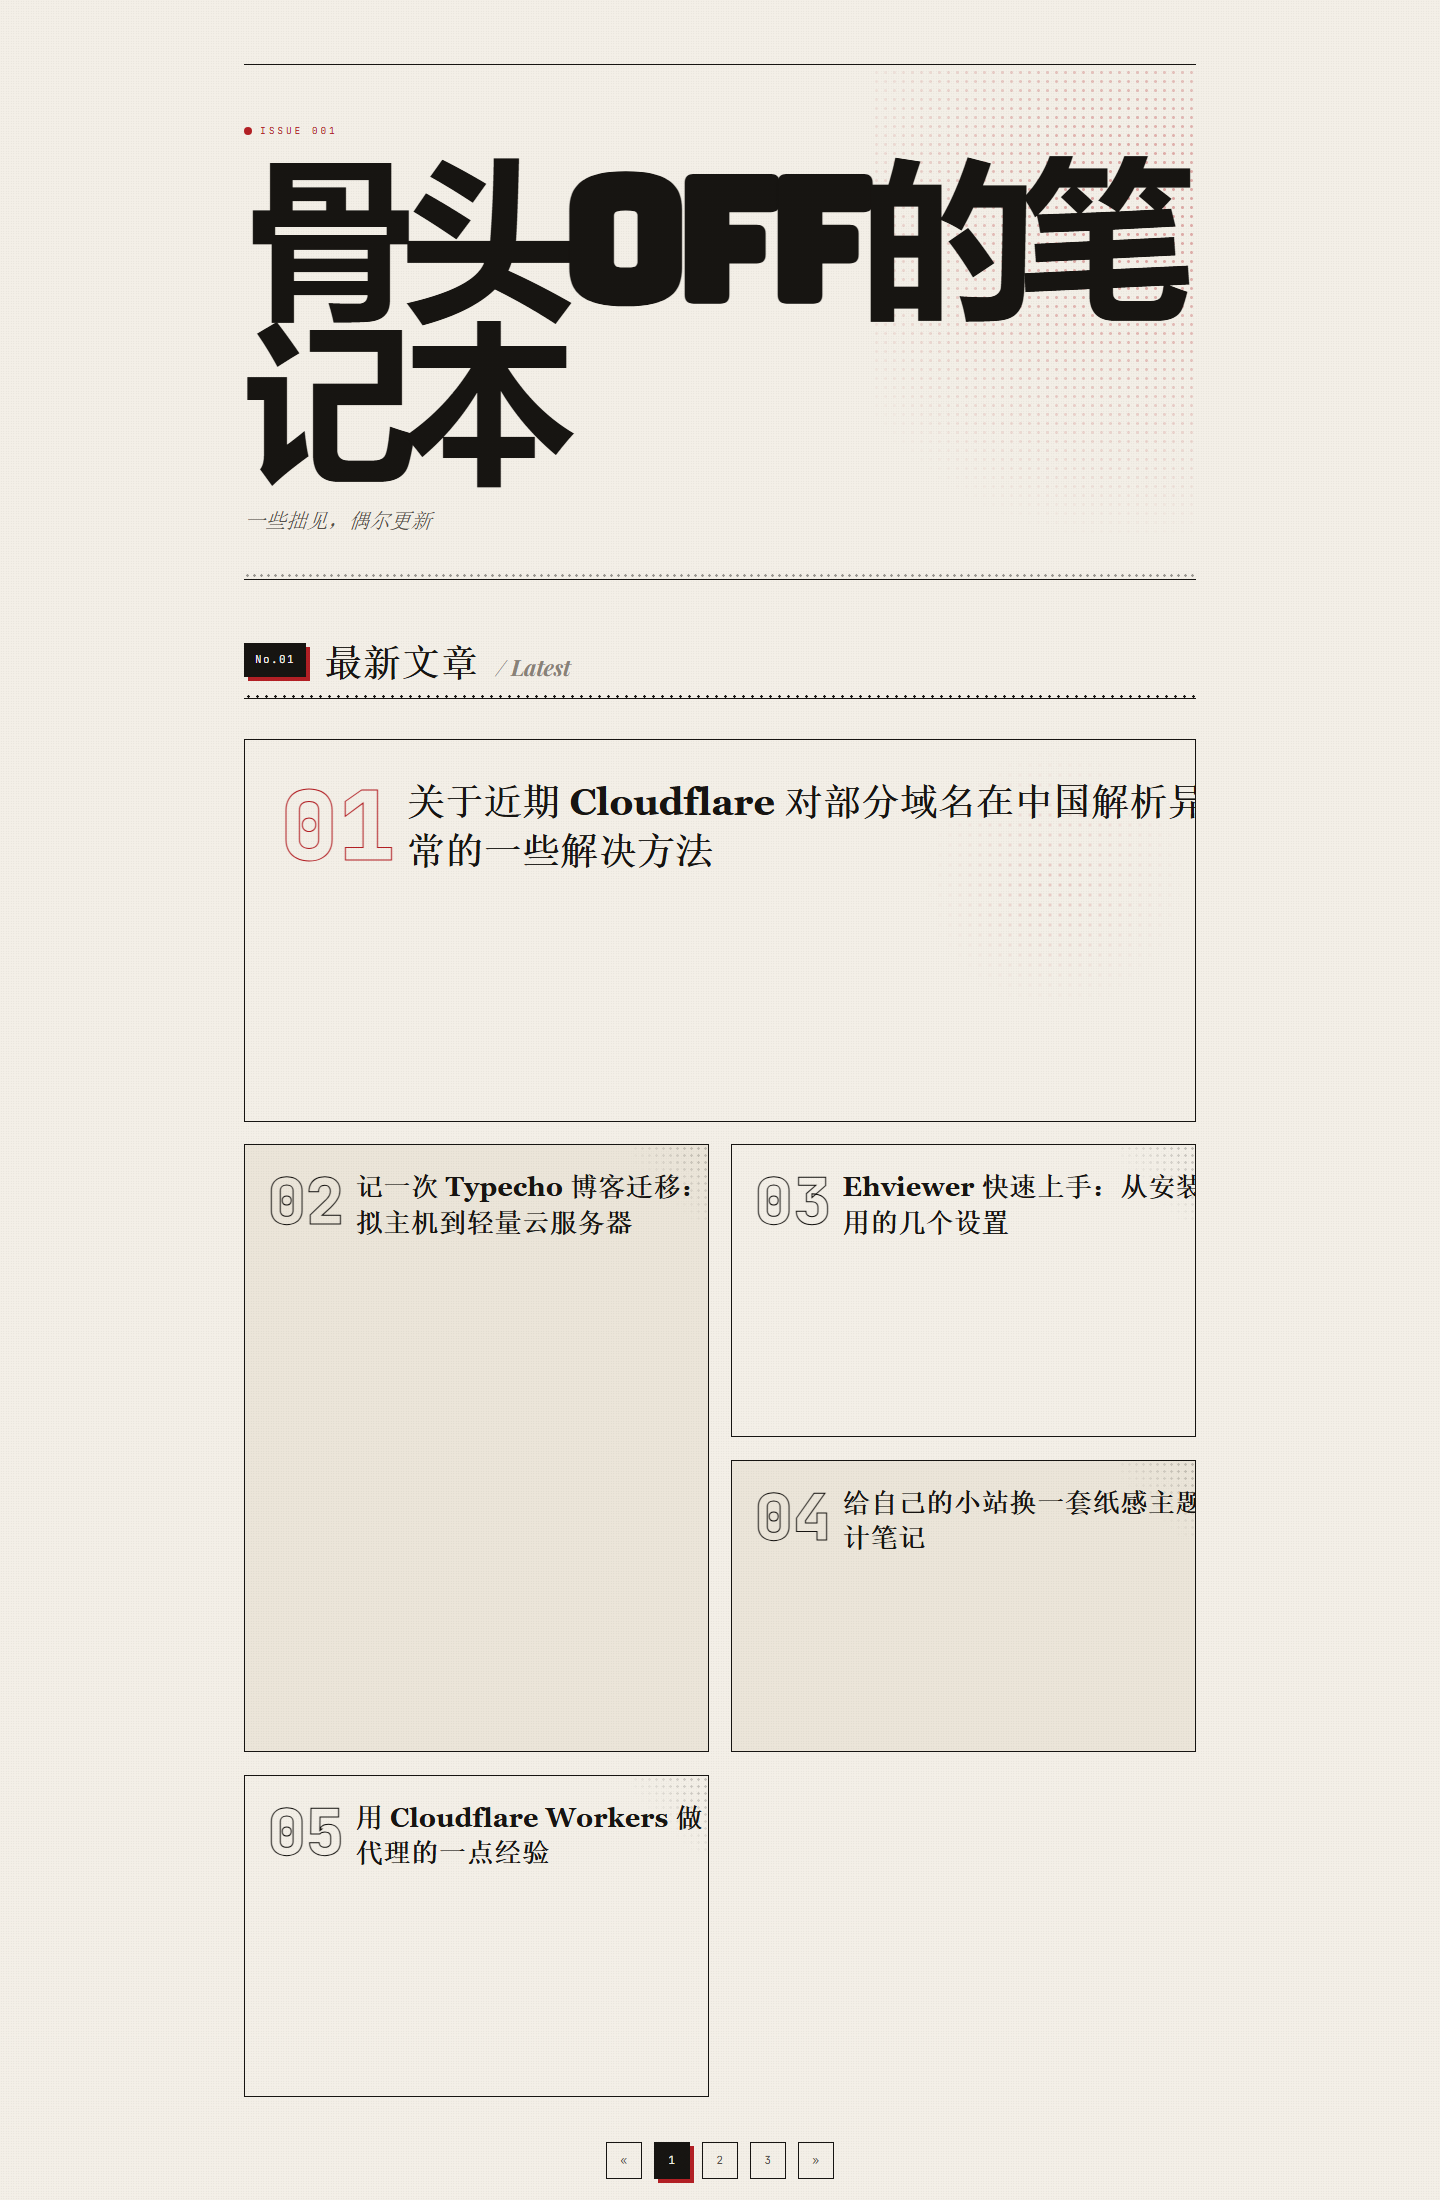
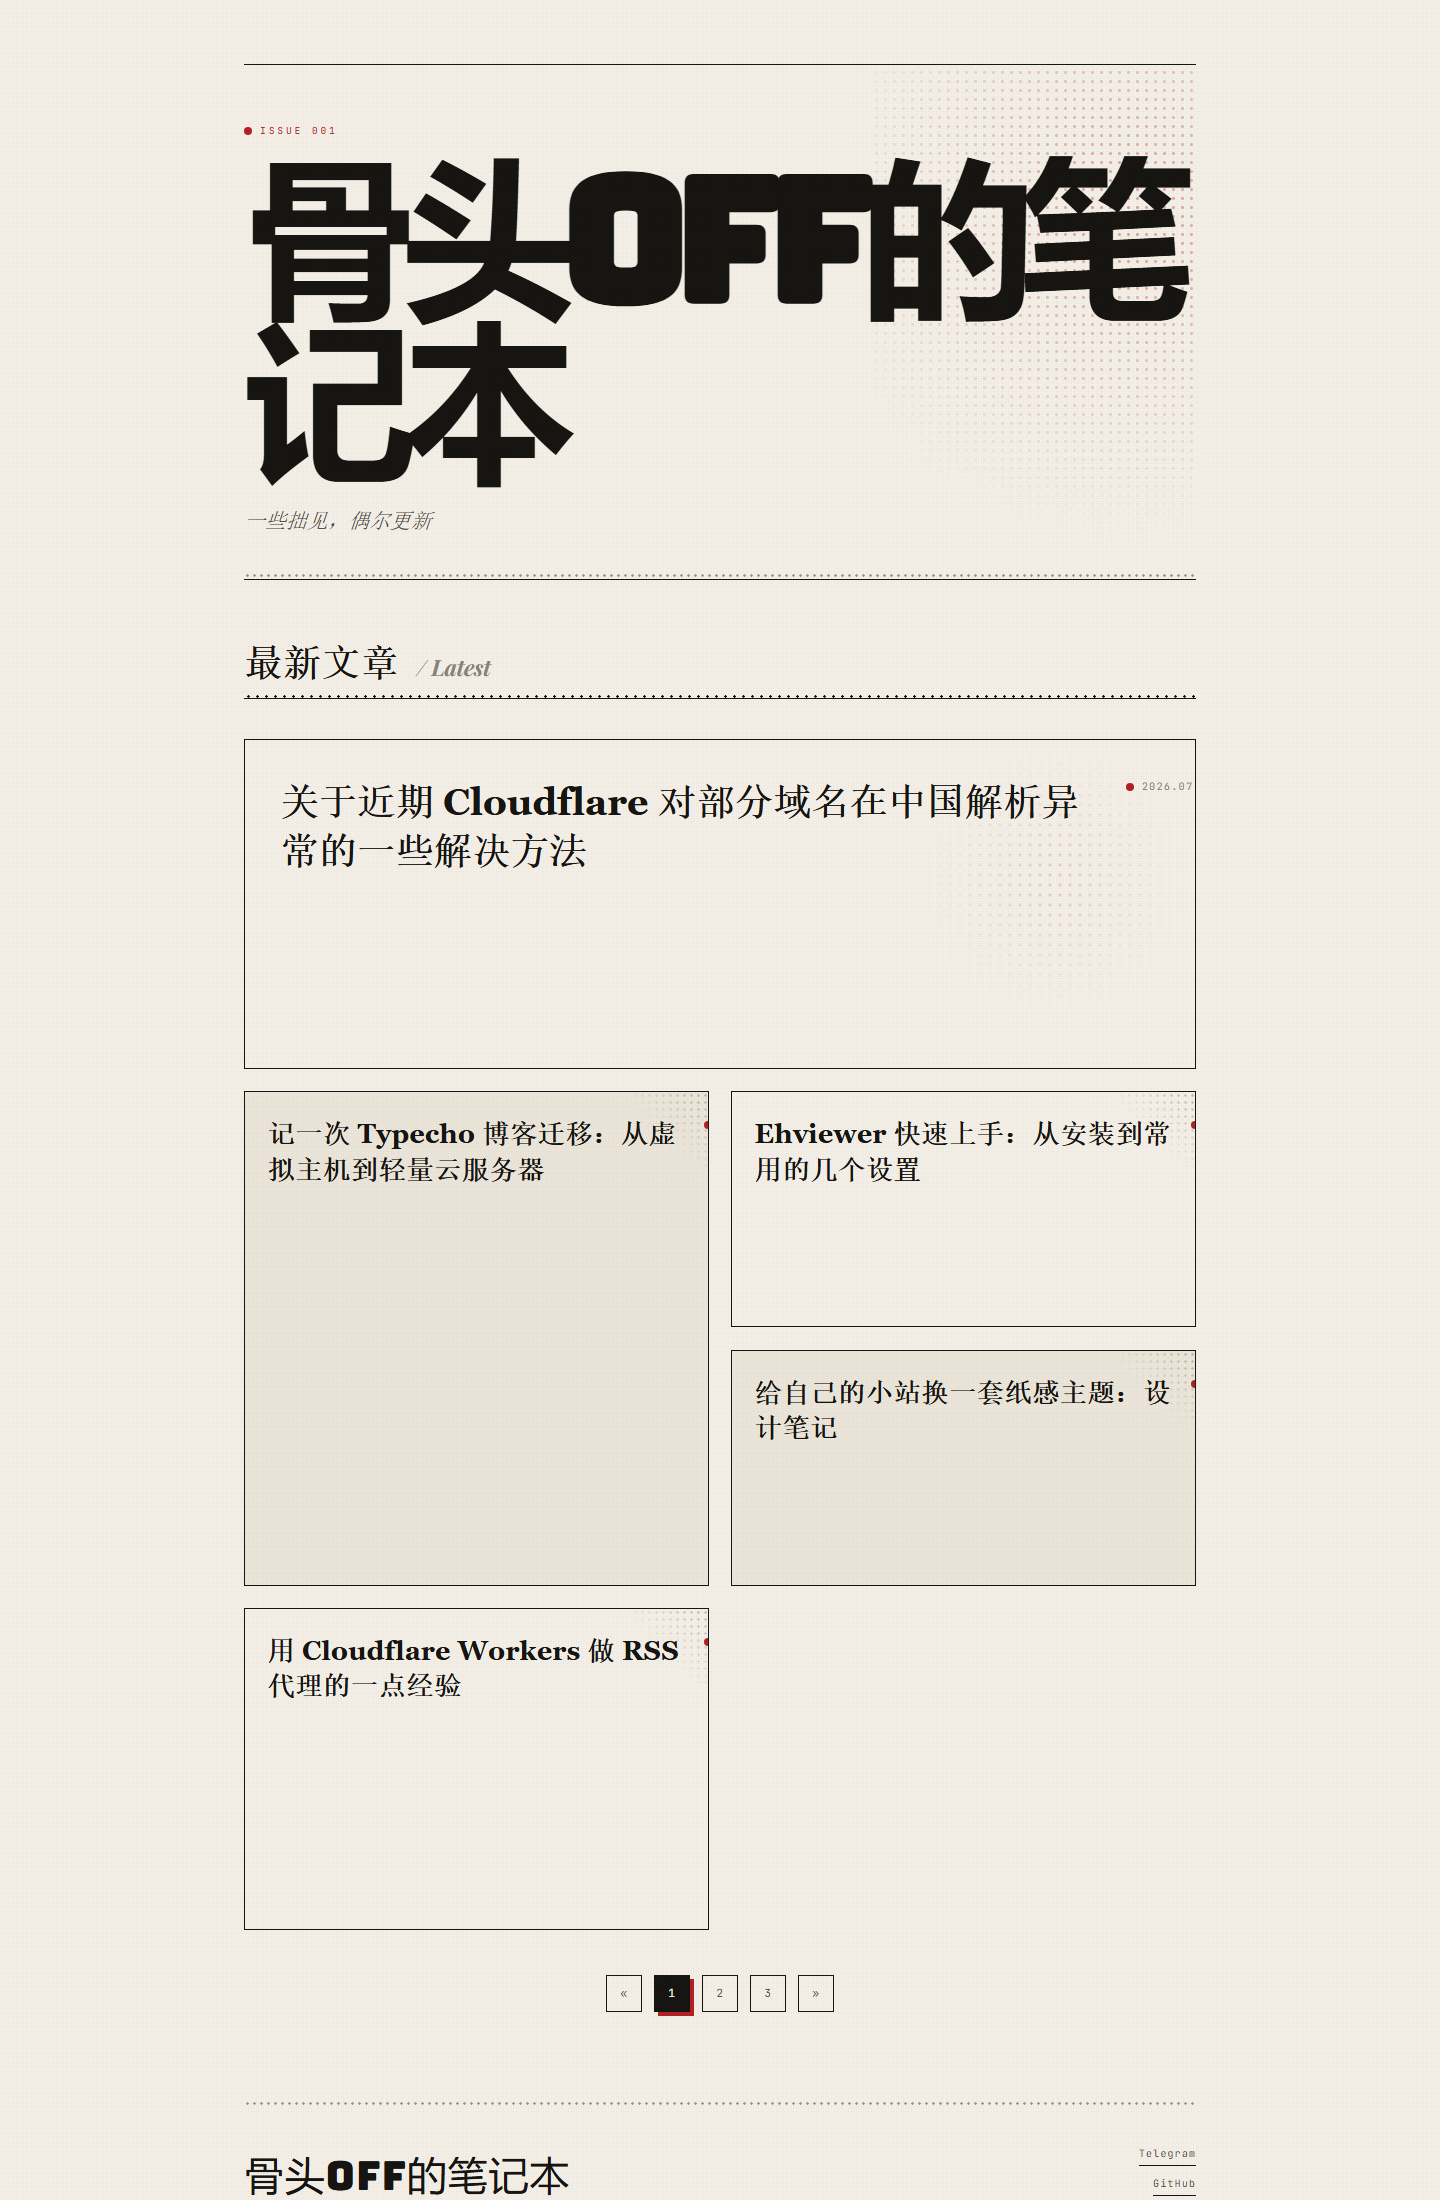
refactor(home): drop category kicker, card numbers and No.01 section sticker from homepage cards

diff --git a/index.php b/index.php
@@ -11,8 +11,6 @@ if ($gtHeroDesc === '') {
 }
 $gtFeatured = ('1' === gt_option('featuredCount', '1'));
 $gtShowExcerpt = ('1' === gt_option('showExcerpt', '0'));
-$gtShowCategory = ('1' === gt_option('showCategory', '1'));
-$gtNo = 1;
 ?>
 <main class="main" id="main">
     <div class="issue rv">
@@ -25,25 +23,20 @@ $gtNo = 1;
 
     <section class="sec">
         <header class="sh rv">
-            <span class="sn">No.01</span>
             <h2 class="st"><?php _e('最新文章'); ?> <em><?php _e('/ Latest'); ?></em></h2>
         </header>
         <div class="sr rv"></div>
         <div class="issue-grid rv-s">
             <?php while ($this->next()): ?>
                 <a class="issue-card<?php if ($gtFeatured): ?> featured<?php endif; ?>" href="<?php $this->permalink(); ?>">
-                    <span class="issue-number"><?php echo str_pad((string) $gtNo, 2, '0', STR_PAD_LEFT); ?></span>
                     <span class="issue-card-title"><?php $this->title(); ?></span>
                     <?php if ($gtShowExcerpt): ?>
                         <span class="issue-excerpt"><?php $this->excerpt(90); ?></span>
                     <?php endif; ?>
-                    <?php if ($gtShowCategory): ?>
-                        <span class="issue-kicker"><?php $this->category(', ', false, _t('未分类')); ?></span>
-                    <?php endif; ?>
                     <span class="issue-date"><span class="dot"></span><?php $this->date('Y.m.d'); ?></span>
                     <span class="issue-more"><?php _e('READ →'); ?></span>
                 </a>
-                <?php $gtFeatured = false; $gtNo++; ?>
+                <?php $gtFeatured = false; ?>
             <?php endwhile; ?>
         </div>
         <?php $this->pageNav(_t('«'), _t('»'), 3, '…', array('wrapTag' => 'div', 'wrapClass' => 'page-nav', 'currentClass' => 'current')); ?>

diff --git a/functions.php b/functions.php
@@ -57,13 +57,6 @@ function themeConfig($form)
     );
     $form->addInput($showExcerpt);
 
-    $showCategory = new \Typecho\Widget\Helper\Form\Element\Select(
-        'showCategory', array('1' => _t('显示'), '0' => _t('隐藏')), '1',
-        _t('HOMEPAGE — 显示分类'),
-        _t('编号卡片是否显示分类标签。')
-    );
-    $form->addInput($showCategory);
-
     /* ---------- 03 STYLE · 视觉 ---------- */
     $accentColor = new \Typecho\Widget\Helper\Form\Element\Text(
         'accentColor', null, '#b32025',
